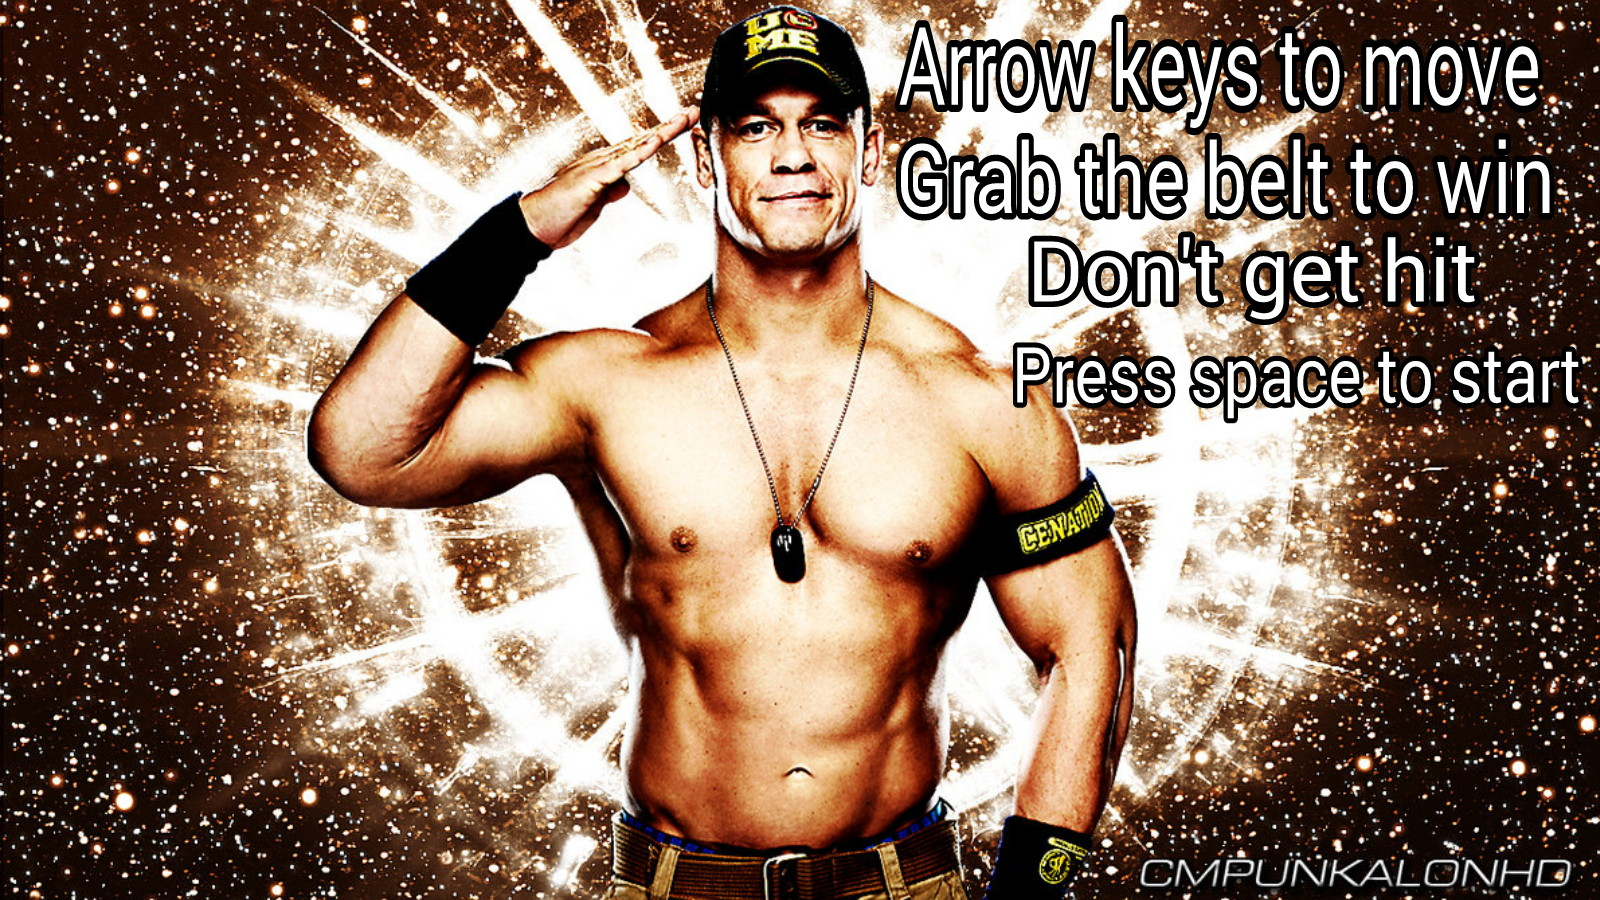
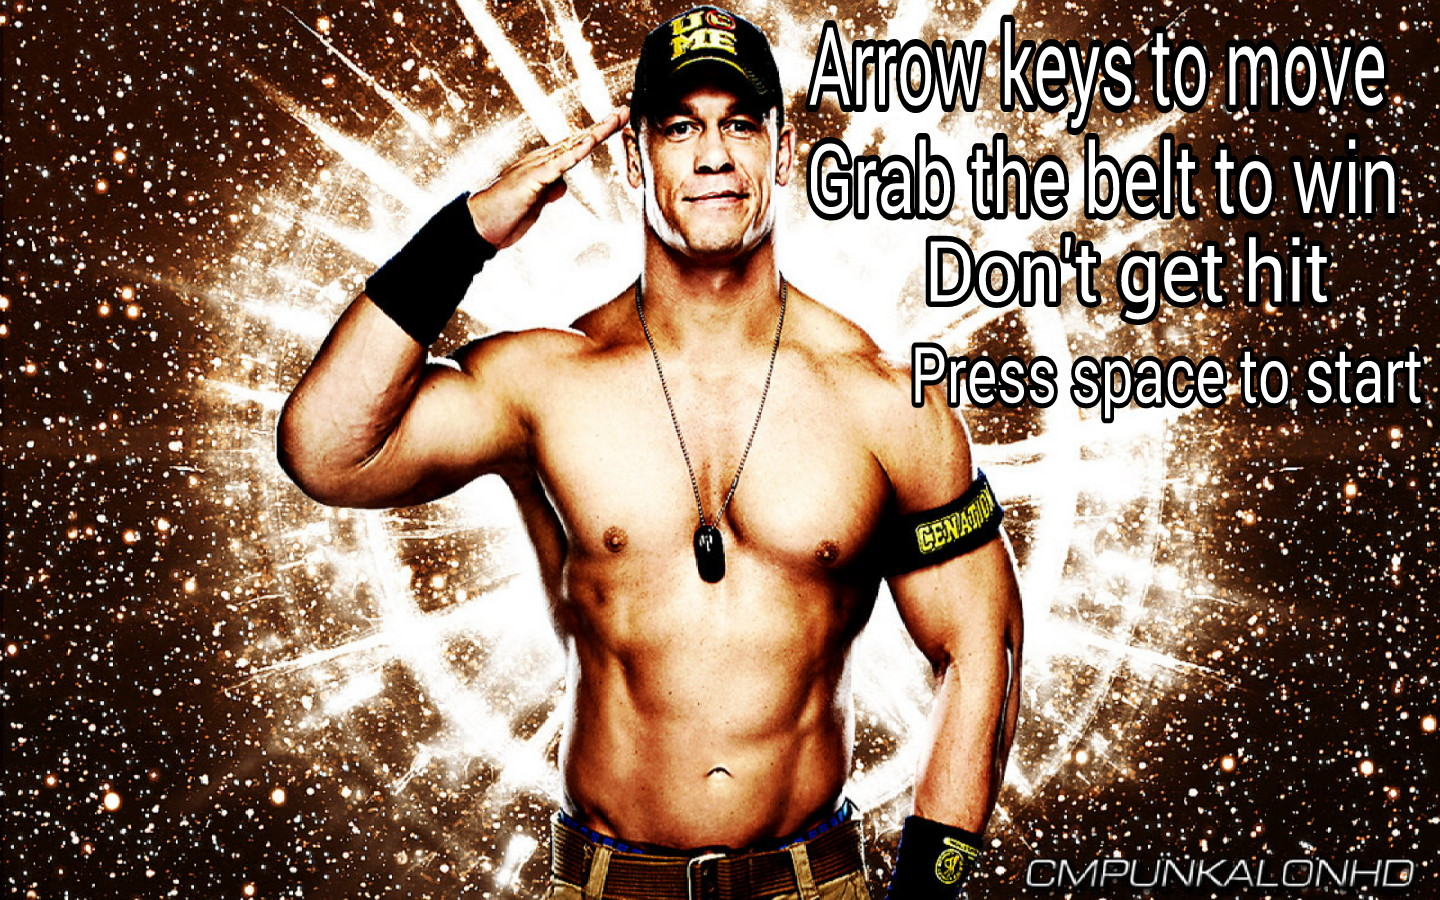
placed menu screens in top left corner

diff --git a/lib/menu.rb b/lib/menu.rb
@@ -8,7 +8,7 @@ class Menu
   end
 
   def draw
-    @title.draw(0,(HEIGHT - 300) / 2,0) #title.draw(0,0,0) TODO make full size image for each menu
+    @title.draw(0,0,0) #TODO make full size image for each menu
   end
 
   def update ; end

diff --git a/lib/level_finished_screen.rb b/lib/level_finished_screen.rb
@@ -10,7 +10,7 @@ class LevelFinishedScreen
   end
 
   def draw
-    @title.draw(0,(HEIGHT - 300) / 2,0)
+    @title.draw(0,0,0)
   end
 
   def update ; end

diff --git a/lib/game_over_screen.rb b/lib/game_over_screen.rb
@@ -9,7 +9,7 @@ class GameOverScreen
   end
 
   def draw
-    @title.draw(0,(HEIGHT - 300) / 2,0)
+    @title.draw(0,0,0)
   end
 
   def update ; end
